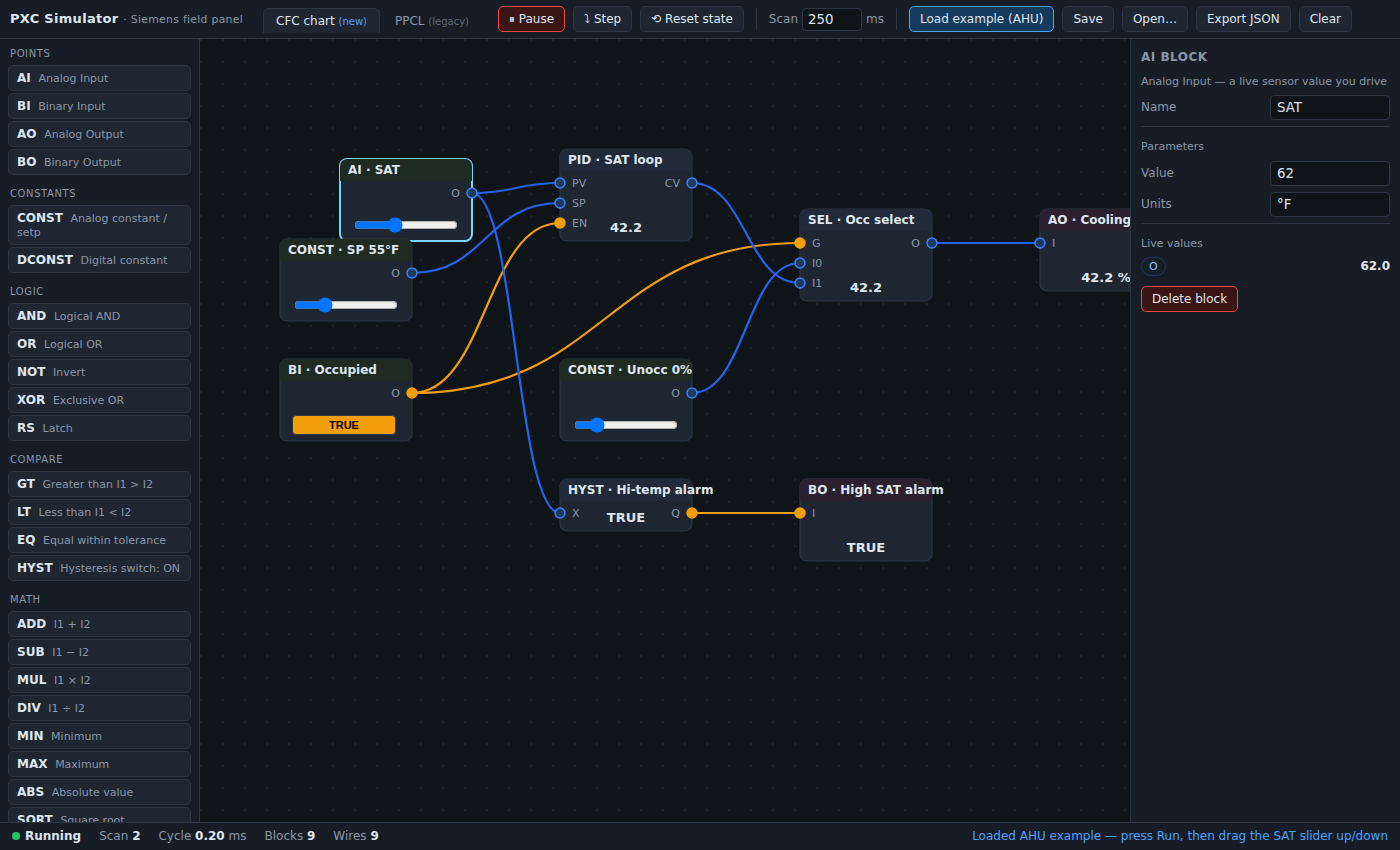
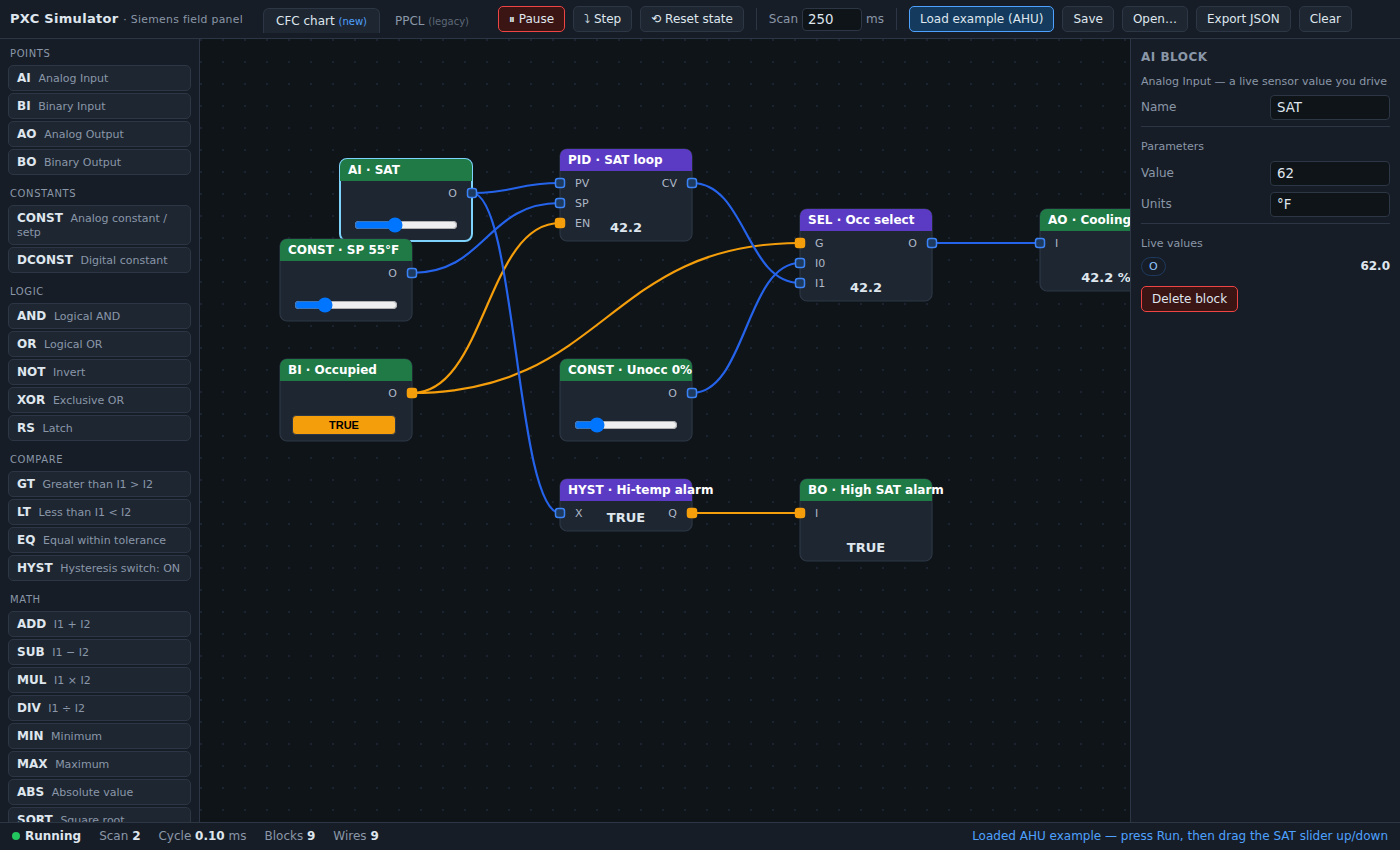
Clean up block rendering: colored headers + tidy pin nubs, no label overlap
- Pins are now square nubs seated centered on the block border, with pin
  labels inset further so a marker can never cover its label text.
- Category-colored headers: green for points/constants (I/O), purple for
  function blocks — matching the cleaner ABT-style look.

Claude-Session: https://claude.ai/code/session_0182zaL66uu8QJKowqYHCwVi

diff --git a/cfc-simulator/index.html b/cfc-simulator/index.html
@@ -440,12 +440,13 @@ function buildBlocks(){
     const sel=selBlock===b.id;
     el('rect',{x:b.x,y:b.y,width:W,height:h,rx:7,fill:'var(--panel2)',
       stroke:sel?'var(--sel)':'var(--line)','stroke-width':sel?2:1.2}, g);
-    // header (drag handle)
+    // header (drag handle) — green for I/O & constants, purple for function blocks
+    const isIO = !!(def.control||def.sink);
+    const hdrFill = isIO ? '#1f7a46' : '#5b3bc4';
     const hdr=el('rect',{x:b.x,y:b.y,width:W,height:HDR,rx:7,
-      fill:def.sink?'#2a2030':def.control?'#1d2b22':'#202a38',
-      stroke:'none', style:'cursor:move'}, g);
-    el('rect',{x:b.x,y:b.y+HDR-7,width:W,height:7,fill:def.sink?'#2a2030':def.control?'#1d2b22':'#202a38'},g);
-    const title=el('text',{x:b.x+8,y:b.y+15,fill:'var(--ink)','font-size':12,'font-weight':600,style:'cursor:move'},g);
+      fill:hdrFill, stroke:'none', style:'cursor:move'}, g);
+    el('rect',{x:b.x,y:b.y+HDR-7,width:W,height:7,fill:hdrFill},g);
+    const title=el('text',{x:b.x+8,y:b.y+15,fill:'#fff','font-size':12,'font-weight':600,style:'cursor:move'},g);
     title.textContent=def.title + (b.name?(' · '+b.name):'');
     hdr.addEventListener('pointerdown',ev=>startDrag(ev,b));
     title.addEventListener('pointerdown',ev=>startDrag(ev,b));
@@ -455,13 +456,13 @@ function buildBlocks(){
     def.inputs.forEach((p,i)=>{
       const y=pinY(b,i);
       drawPin(g,b,'in',p,b.x,y);
-      const tx=el('text',{x:b.x+12,y:y+4,fill:'var(--dim)','font-size':11},g); tx.textContent=p.n;
+      const tx=el('text',{x:b.x+15,y:y+4,fill:'#aeb8c6','font-size':11},g); tx.textContent=p.n;
     });
     // output pins + live value
     def.outputs.forEach((p,i)=>{
       const y=pinY(b,i);
       drawPin(g,b,'out',p,b.x+W,y);
-      const tx=el('text',{x:b.x+W-12,y:y+4,fill:'var(--dim)','font-size':11,'text-anchor':'end'},g);
+      const tx=el('text',{x:b.x+W-15,y:y+4,fill:'#aeb8c6','font-size':11,'text-anchor':'end'},g);
       tx.textContent=p.n;
       const vx=el('text',{id:'ov_'+b.id+'_'+p.n, x:b.x+W-12,y:y+4,
         fill:p.t===T_BOOL?'#fcd34d':'#93c5fd','font-size':11,'text-anchor':'end','font-weight':600,
@@ -475,14 +476,16 @@ function buildBlocks(){
   });
 }
 function drawPin(g,b,io,p,x,y){
-  const c=el('circle',{id:'pin_'+b.id+'_'+io+'_'+p.n, cx:x,cy:y,r:PINR,
+  // square "nub" seated centered on the block border
+  const s=9;
+  const c=el('rect',{id:'pin_'+b.id+'_'+io+'_'+p.n, x:x-s/2,y:y-s/2,width:s,height:s,rx:2.5,
     fill: p.t===T_BOOL?'#5b4a25':'#1e3a5f', stroke:p.t===T_BOOL?'#f59e0b':'#3b82f6',
     'stroke-width':1.5, style:'cursor:crosshair'},g);
   c.addEventListener('pointerdown',ev=>{ev.stopPropagation();
     if(io==='out') startWire(ev,b,p); });
   c.addEventListener('pointerup',ev=>{ if(io==='in') completeWire(ev,b,p); });
   // larger invisible hit area
-  const hit=el('circle',{cx:x,cy:y,r:10,fill:'transparent',style:'cursor:crosshair'},g);
+  const hit=el('circle',{cx:x,cy:y,r:11,fill:'transparent',style:'cursor:crosshair'},g);
   hit.addEventListener('pointerdown',ev=>{ev.stopPropagation(); if(io==='out') startWire(ev,b,p);});
   hit.addEventListener('pointerup',ev=>{ if(io==='in') completeWire(ev,b,p); });
 }